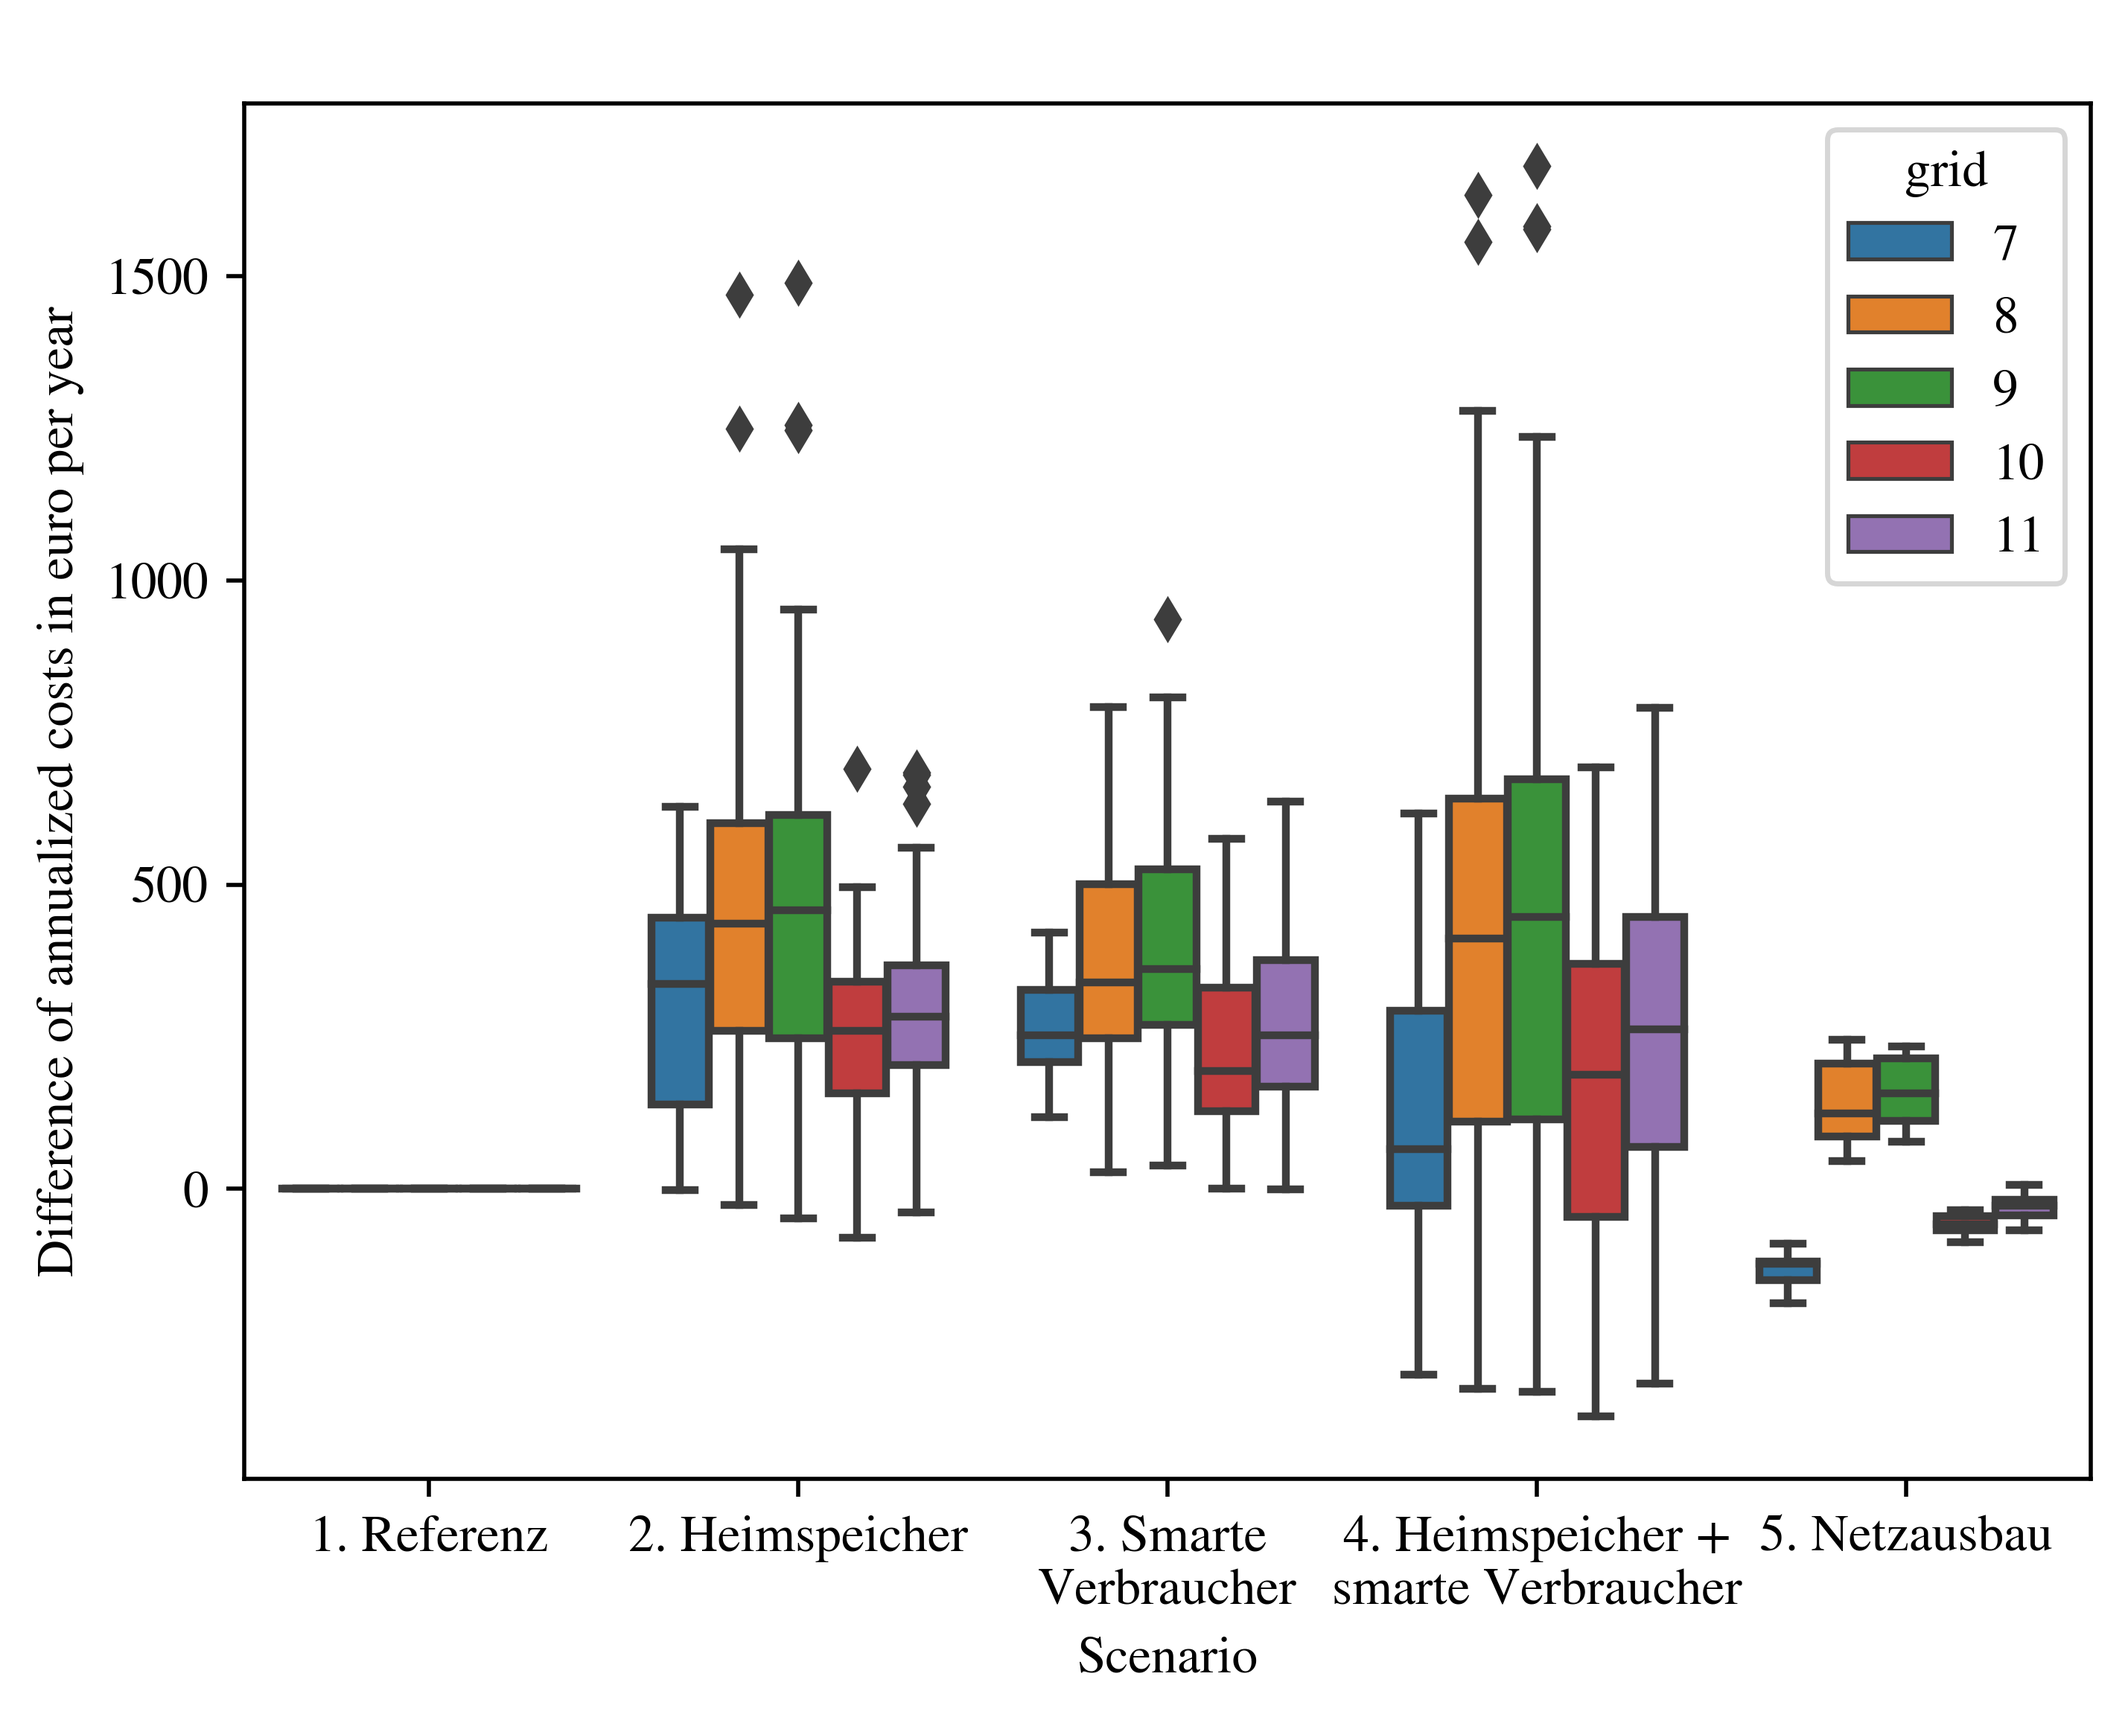
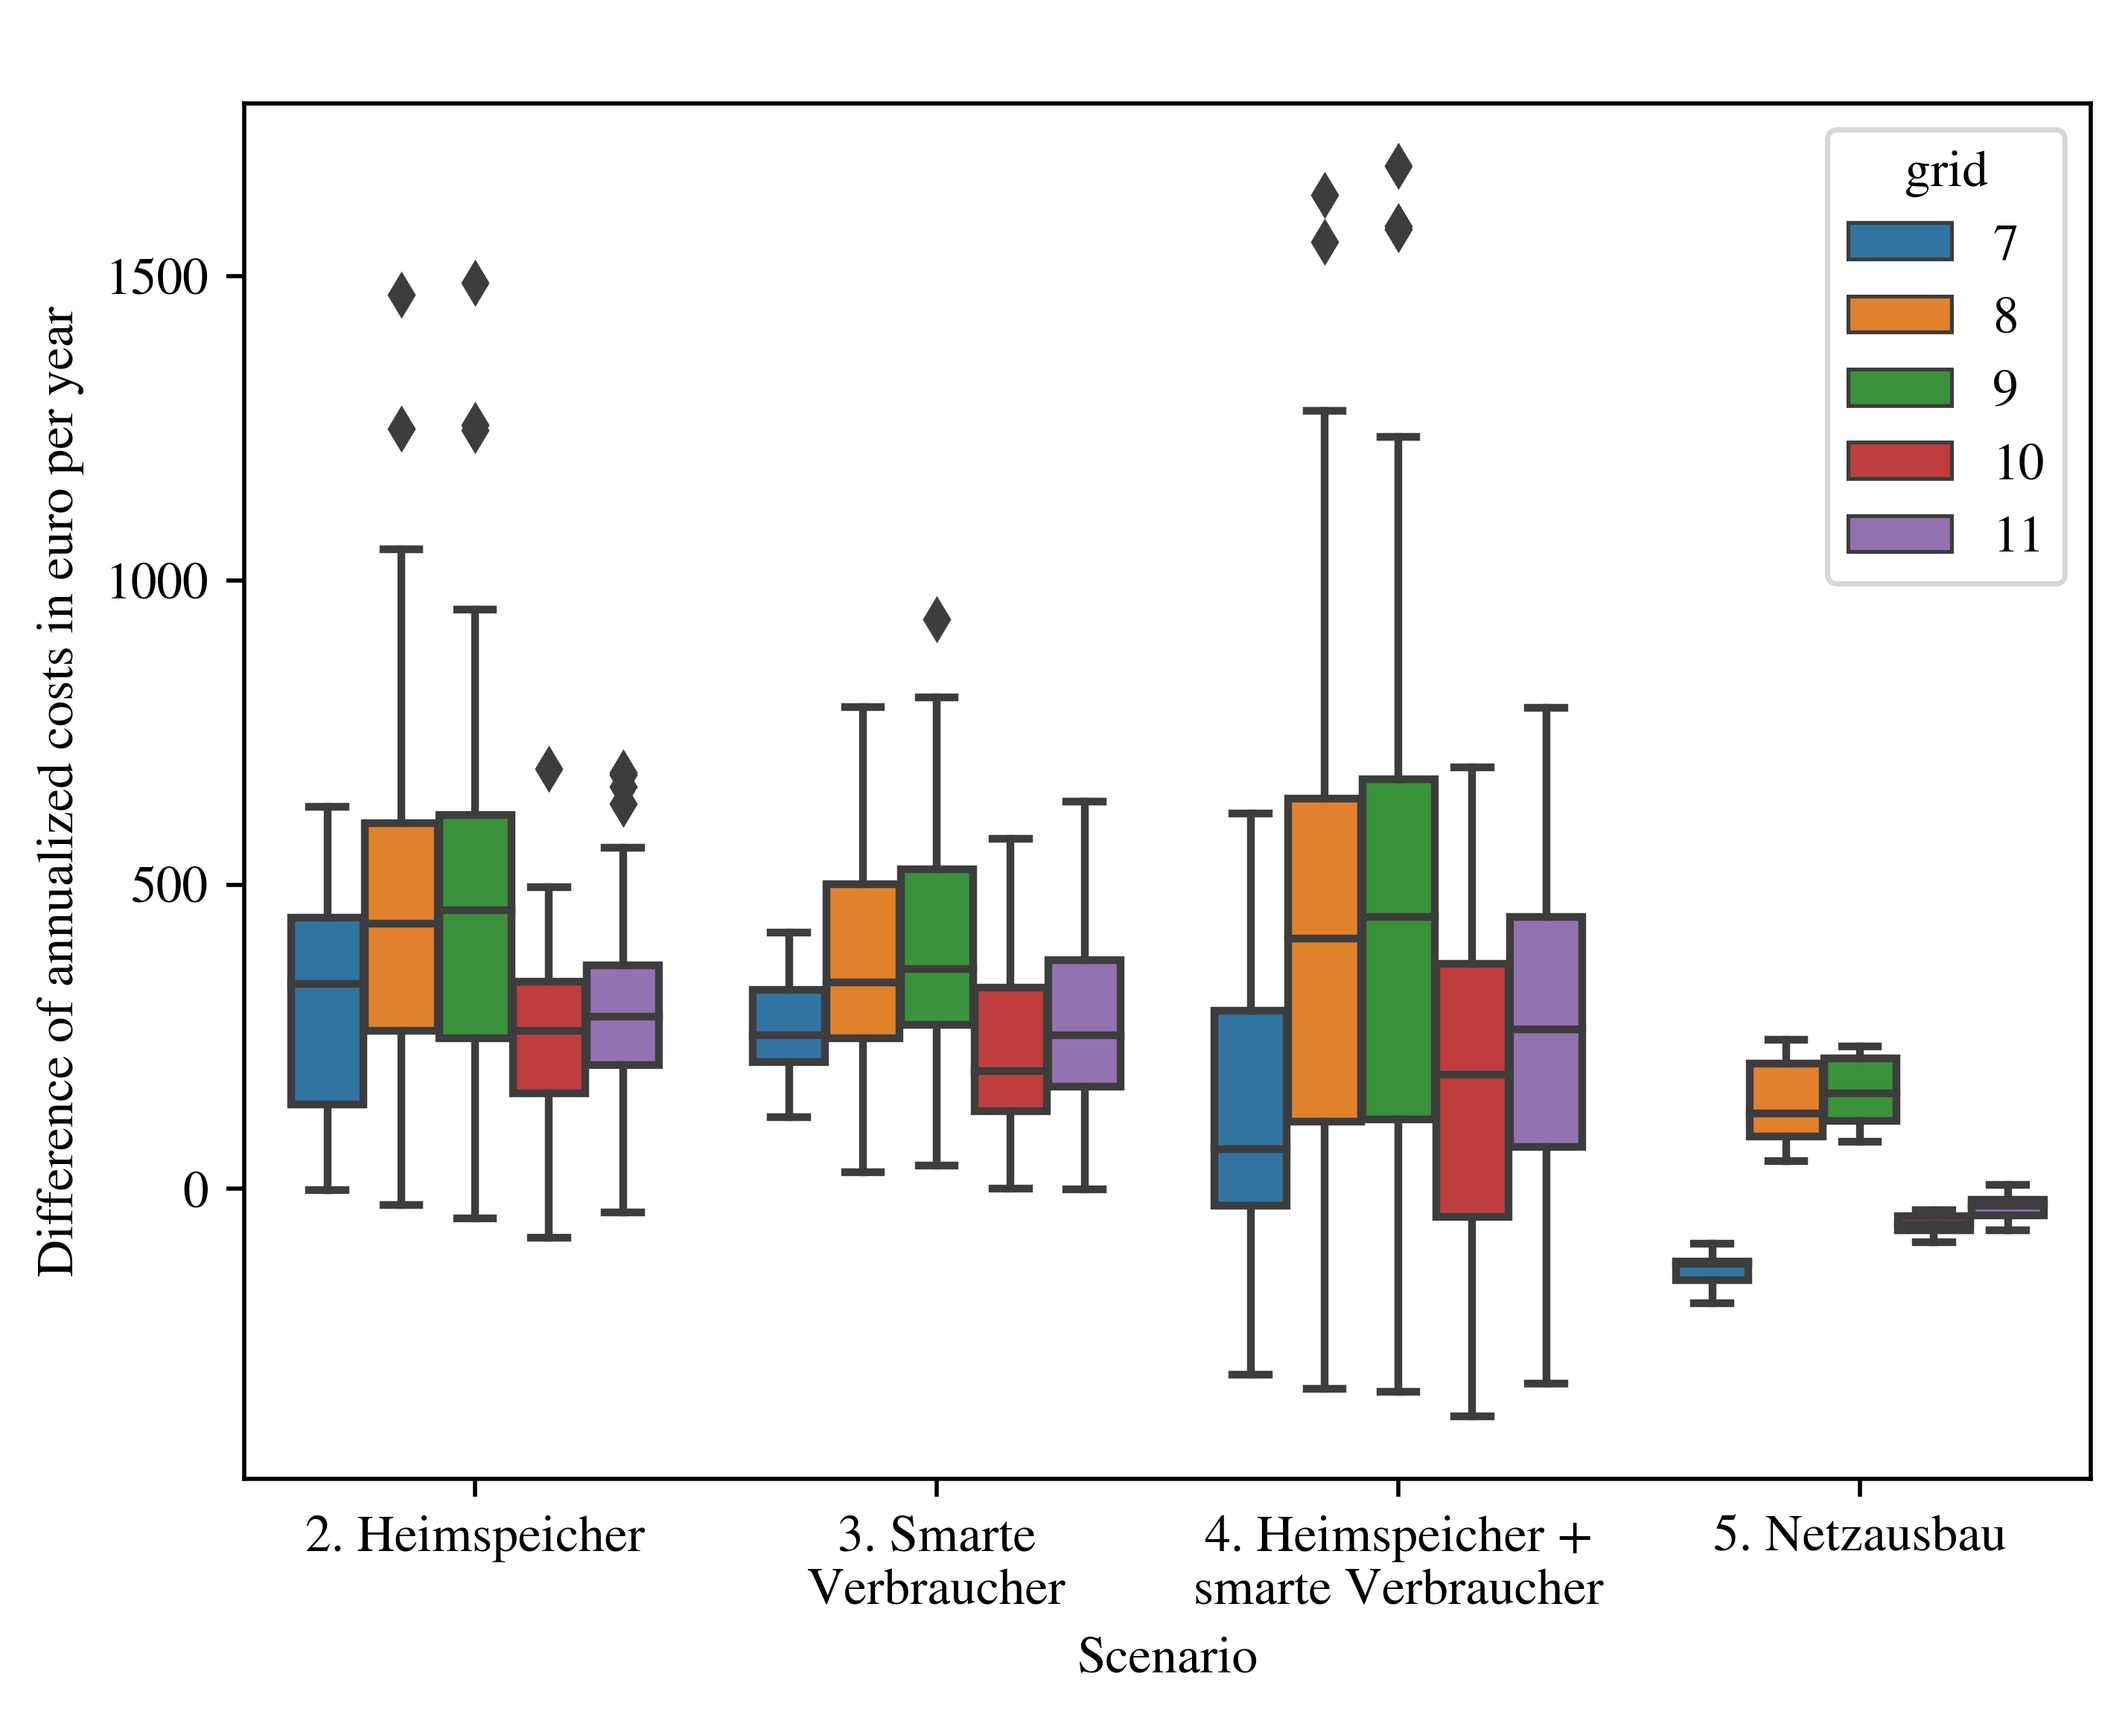
add

diff --git a/src/main_EVA_economics.py b/src/main_EVA_economics.py
@@ -279,6 +279,9 @@ def boxplot_diff_costs_reven_HH(eva, save_fig_dir=save_fig_dir):
       df_sns_helper['hh'] = eva[i]['total_HH'].index
       df_sns = pd.concat([df_sns, df_sns_helper])
 
+  df_sns = df_sns[df_sns.scenario != ref].copy()
+  #print(df_sns)
+
   df_sns = rename_scenarios(df_sns.reset_index())
 
   #'''
@@ -1313,9 +1316,54 @@ def evaluate_bss_sizing(eva, cd):
     plt.savefig(save_fig_dir + '03b_BSS_sizing_annuiCosts_grid'+str(g)+'_scenario'+str(plot_scenario)+'.png', bbox_inches='tight', dpi=dpi)
 
 
+def create_pie_chart(eva, scenario='8133310', grids=[7,8,9,10,11]):
+  folder = None
+  def add_list_items(l1, l2):
+    l = len(l1)
+    for i in range(l):
+      l1[i] += l2[i]
+    return l1
+
+  # Seaborn Colors
+  bright = sns.color_palette("bright", 10)
+  dark = sns.color_palette("dark", 10)
+  colors = ['red', dark[3], 'blue', dark[0], 'green', 'yellow']
+
+  data_con = [0,0,0,0,0,0]
+  data_gen = [0,0,0,0,0,0]
+
+  for n in grids:
+      index = 's' + str(scenario) + 'n' + str(n)
+      economics_folder = os.path.join("./", "output-files/001_economics/"+str(scenario)+"/"+str(net_name[n])+"/")
+
+      E = pd.read_csv(economics_folder + 'energy_share_MWh.csv', delimiter = ',', low_memory=False).drop('Unnamed: 0', axis=1)
+
+      #define data
+      data_con = add_list_items(data_con, [(E['Ec_self'].sum() - E['Ec_self_flex'].sum()), E['Ec_self_flex'].sum(), (E['Ec_LV'].sum() - E['Ec_LV_flex'].sum()), E['Ec_LV_flex'].sum(), E['Ec_MV'].sum(), E['Ecur_load'].sum()])
+
+      #define data
+      data_gen = add_list_items(data_gen, [(E['Eg_self'].sum() - E['Eg_self_flex'].sum()), E['Eg_self_flex'].sum(), (E['Eg_LV'].sum() - E['Eg_LV_flex'].sum()), E['Eg_LV_flex'].sum(), E['Eg_MV'].sum(), E['Ecur_pv'].sum()])
+
+  labels_con = ['self-consumed', 'self-consumed (flex)', 'P2P', 'P2P (flex)', 'MV-grid obtained', 'curtailed Load']
+  labels_gen = ['self-consumed', 'self-consumed (flex)', 'P2P', 'P2P (flex)', 'MV-grid feed-in', 'curtailed PV']
+  print(sum(data_con))
+  print(sum(data_gen))
+  #create pie chart
+  plt.pie(data_con, labels = labels_con, colors = colors, autopct='%.0f%%')
+  plt.show()
+  #'''
+
+  #create pie chart
+  plt.pie(data_gen, labels = labels_gen, colors = colors, autopct='%.0f%%')
+  plt.show()
+  #'''
+
+
 eva = load_scenario_data(scenarios)
 
-boxplot_diff_costs_reven_HH(eva)
+create_pie_chart(eva)
+
+#boxplot_diff_costs_reven_HH(eva)
 #boxplot_diff_costs_reven_ECM(eva)
 #boxplot_diff_costs_reven_CBSS(eva)
 #bar_revenue_costs_HH(eva)
